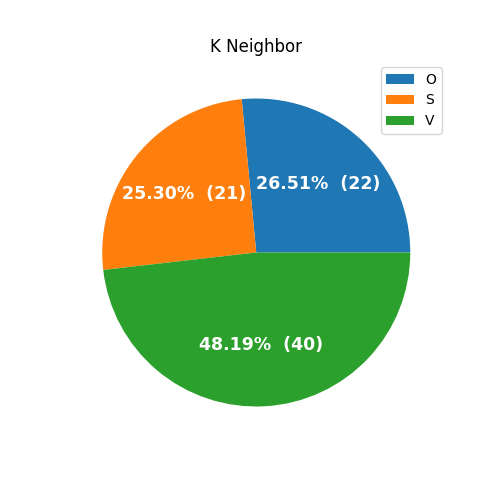
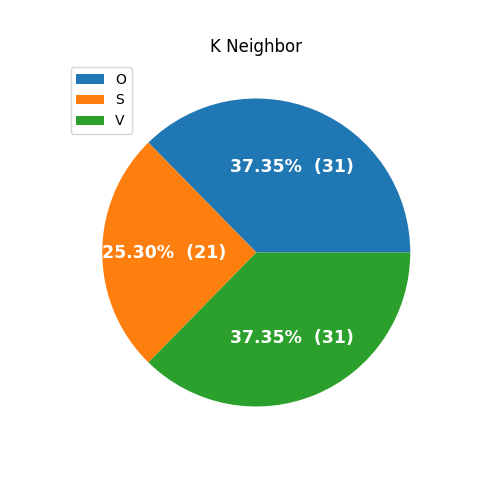
improved NN model, display result for transformed models, add title for report

diff --git a/analyze_cleaned_data.py b/analyze_cleaned_data.py
@@ -17,11 +17,21 @@ output_folder = "analyzed_data"
 report_file = "classification_report.txt"
 
 OUTPUT_TEMPLATE_CLASSIFIER = (
+    '-Without Tranformation-\n'
     'Bayesian classifier: {bayes:.3g}\n'
     'k-Neighbors classifier: {knn:.3g}\n'
     'Neural Network classifier: {nn:.3g}\n'
     'Random Forest classifier: {forest:.3g}\n'
 )
+
+OUTPUT_TEMPLATE_CLASSIFIER_TRANSFORM = (
+    '-With Transformation-\n'
+    'Bayesian classifier: {bayes:.3g}\n'
+    'k-Neighbors classifier: {knn:.3g}\n'
+    'Neural Network classifier: {nn:.3g}\n'
+    'Random Forest classifier: {forest:.3g}\n'
+)
+
 
 # Convert DataFrame Columns into numbers so that models can read them
 def numerize_data(data):
@@ -54,7 +64,7 @@ def numerize_data(data):
 def get_stacked_dataframe(data):
     # X = (data.iloc[:, -12:]) # From acc_x-std to  g-force_z-peaks
     X = data.iloc[:,-17:] # From user to g-force_z-peaks
-    
+ 
     X['user_no'] = 0 # Add column to numerize user column
     X = X.apply(numerize_data, axis = 1)
     X = X.drop(columns=['user', 'shape'])
@@ -71,6 +81,10 @@ def remove_report_file(report_file):
         os.remove(filepath)
 
 
+def write_title_to_report(title):
+    with open(output_folder + '/' + report_file, 'a') as f:
+        f.write('-----' + title + '-----\n')
+
 #predicts and saves classification report to report.txt
 #each classification is in order from bayes to forest
 #all models are in single file for easier viewing
@@ -79,6 +93,7 @@ def clf_classification_report(label, m, X_test, y_test):
     shape_count = enumerate_y(y_pred)
     plot_predictions(shape_count, label)
     report = classification_report(y_test, y_pred)
+    
     with open(output_folder + '/' + report_file, 'a') as f:
         f.write('''\b'''+label+'\n')
         f.write(report)
@@ -134,46 +149,68 @@ def analyze_data():
     title = "y_test"
     plot_predictions(test_shape_count, title)
     
-#     bayes_clf = make_pipeline(
-#         StandardScaler(),
-#         GaussianNB()
-#     )
     bayes_clf = GaussianNB()
+    bayes_clf_pipeline = make_pipeline(
+        StandardScaler(),
+        # PCA(10),
+        GaussianNB()
+    )
     
-#     knn_clf = make_pipeline(
-#         StandardScaler(),
-#         KNeighborsClassifier(n_neighbors=7)
-#     )
     knn_clf = KNeighborsClassifier(n_neighbors=7)
+    knn_clf_pipeline = make_pipeline(
+        StandardScaler(),
+        # PCA(10),
+        KNeighborsClassifier(n_neighbors=7)
+    )
     
-#     nn_clf = make_pipeline(
-#         StandardScaler(),
-#         MLPClassifier(solver='lbfgs', hidden_layer_sizes=(6,), max_iter=10000)
-#     )
-    nn_clf = MLPClassifier(random_state=1, max_iter=10000)
+    # nn_clf = MLPClassifier(random_state=1, max_iter=10000)
+    nn_clf = MLPClassifier(solver='lbfgs', alpha=1e-3, hidden_layer_sizes=(6,), random_state=1, max_iter=10000)
+    nn_clf_pipeline = make_pipeline(
+        StandardScaler(),
+        # PCA(10),
+        MLPClassifier(solver='lbfgs', alpha=1e-3, hidden_layer_sizes=(6,), random_state=1, max_iter=10000)
+    )
     
-#     forest_clf = make_pipeline(
-#         StandardScaler(),
-#         RandomForestClassifier()
-#     )
     forest_clf = RandomForestClassifier(criterion="entropy")
+    forest_clf_pipeline = make_pipeline(
+        StandardScaler(),
+        # PCA(10),
+        RandomForestClassifier(criterion="entropy")
+    )
     
     models = [bayes_clf, knn_clf, nn_clf, forest_clf]
+    models_pipeline = [bayes_clf_pipeline, knn_clf_pipeline, nn_clf_pipeline, forest_clf_pipeline]
     labels = ["Naive Bayes", "K Neighbor", "Neural Network", "Random Forest"]
     
     #removes existing classification report, preventing new data stacking on old data
     remove_report_file(report_file)
 
     #fits each model and gets classification report
+    write_title_to_report("Without Transformation")
     for i, m in enumerate(models):
+        m.fit(X_train, y_train)
+        clf_classification_report(labels[i], m, X_test, y_test)
+
+    #fits each model_pipeline and gets classification report
+    write_title_to_report("With Transformation")
+    for i, m in enumerate(models_pipeline):
         m.fit(X_train, y_train)
         clf_classification_report(labels[i], m, X_test, y_test)
 
     #prints the score of each model
     #for further analysis look at report.txt
+    #Without Tranformation
     print(OUTPUT_TEMPLATE_CLASSIFIER.format(
         bayes = bayes_clf.score(X_test, y_test),
         knn = knn_clf.score(X_test, y_test),
         nn = nn_clf.score(X_test, y_test),
         forest = forest_clf.score(X_test, y_test),
+    ))
+
+    #With Tranformation
+    print(OUTPUT_TEMPLATE_CLASSIFIER_TRANSFORM.format(
+        bayes = bayes_clf_pipeline.score(X_test, y_test),
+        knn = knn_clf_pipeline.score(X_test, y_test),
+        nn = nn_clf_pipeline.score(X_test, y_test),
+        forest = forest_clf_pipeline.score(X_test, y_test),
     ))
